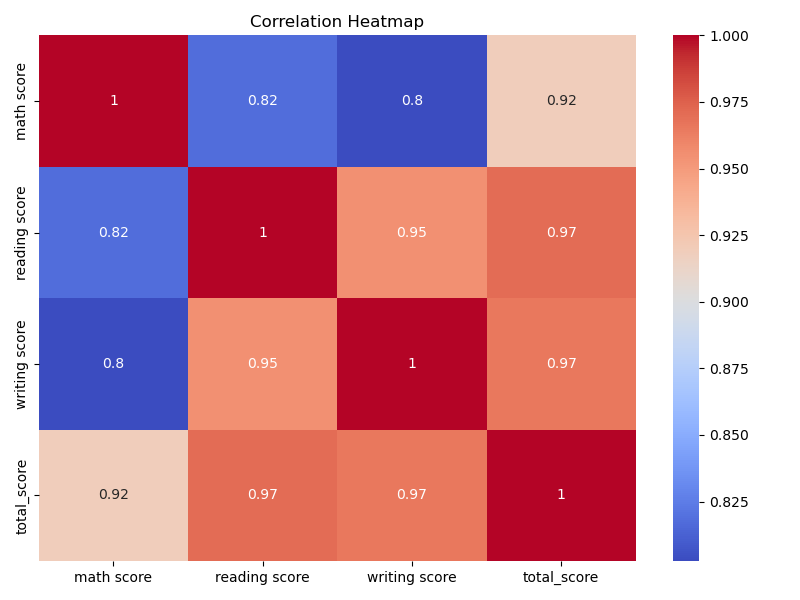
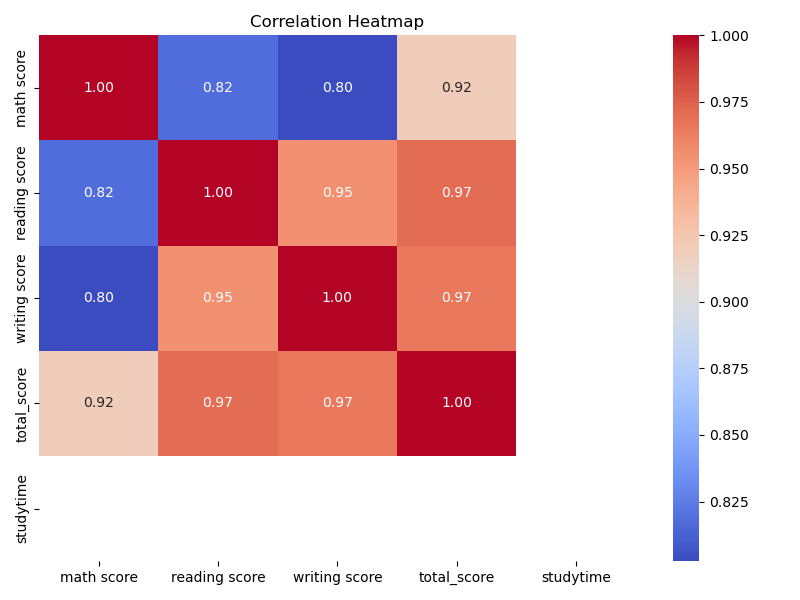
Updated notebook and markdown files

diff --git a/index.html b/index.html
@@ -1,16 +1,18 @@
 <!DOCTYPE html>
 <html lang="en">
+
 <head>
   <meta charset="UTF-8" />
-  <meta name="viewport" content="width=device-width, initial-scale=1.0"/>
+  <meta name="viewport" content="width=device-width, initial-scale=1.0" />
   <title>Student Performance Dashboard</title>
 
   <!-- Fonts & Icons -->
   <link href="https://fonts.googleapis.com/css2?family=IBM+Plex+Sans&display=swap" rel="stylesheet">
-  <link rel="stylesheet" href="https://cdnjs.cloudflare.com/ajax/libs/font-awesome/6.5.0/css/all.min.css"/>
+  <link rel="stylesheet" href="https://cdnjs.cloudflare.com/ajax/libs/font-awesome/6.5.0/css/all.min.css" />
 
   <!-- GSAP -->
   <script src="https://cdnjs.cloudflare.com/ajax/libs/gsap/3.12.2/gsap.min.js"></script>
+  <script src="https://cdnjs.cloudflare.com/ajax/libs/gsap/3.12.2/ScrollTrigger.min.js"></script>
 
   <style>
     * {
@@ -18,6 +20,7 @@
       padding: 0;
       box-sizing: border-box;
     }
+
     body {
       font-family: 'IBM Plex Sans', sans-serif;
       background-color: #f9fafb;
@@ -28,7 +31,30 @@
       margin: auto;
     }
 
-    h1, h2, h3 {
+    header {
+      text-align: center;
+      margin-bottom: 40px;
+    }
+
+    nav {
+      margin-top: 10px;
+      display: flex;
+      justify-content: center;
+      gap: 15px;
+    }
+
+    nav a {
+      text-decoration: none;
+      background: #0077cc;
+      color: white;
+      padding: 6px 12px;
+      border-radius: 6px;
+      font-size: 0.9rem;
+    }
+
+    h1,
+    h2,
+    h3 {
       font-weight: 600;
       margin-bottom: 12px;
     }
@@ -48,7 +74,9 @@
       background: white;
       padding: 15px;
       border-radius: 8px;
-      box-shadow: 0 2px 10px rgba(0,0,0,0.03);
+      box-shadow: 0 2px 10px rgba(0, 0, 0, 0.03);
+      opacity: 0;
+      transform: translateY(20px);
     }
 
     img {
@@ -90,26 +118,62 @@
       font-weight: 500;
     }
 
+    .filter {
+      margin: 20px 0;
+      text-align: center;
+    }
+
+    .filter select {
+      padding: 6px 12px;
+      border-radius: 6px;
+      border: 1px solid #ccc;
+    }
+
     @media (max-width: 600px) {
       .team {
         text-align: center;
       }
+
+      nav {
+        flex-direction: column;
+        gap: 10px;
+      }
     }
   </style>
 </head>
+
 <body>
 
-  <h1 id="title">Student Performance Dashboard</h1>
+  <header>
+    <h1 id="title">📊 Student Performance Dashboard</h1>
+    <nav>
+      <a href="#visuals">Visuals</a>
+      <a href="#timeline">Timeline</a>
+      <a href="#insights">Insights</a>
+    </nav>
+  </header>
+
+  <!-- Chart Filter -->
+  <div class="filter">
+    <label for="scoreFilter">Filter Charts:</label>
+    <select id="scoreFilter" onchange="filterCharts()">
+      <option value="all">Show All</option>
+      <option value="math">Math</option>
+      <option value="reading">Reading</option>
+      <option value="writing">Writing</option>
+      <option value="total">Total</option>
+    </select>
+  </div>
 
   <!-- Key Visuals -->
-  <div class="section">
+  <div class="section" id="visuals">
     <h2 class="icon-title"><i class="fa-solid fa-chart-bar"></i> Key Visuals</h2>
-    <div class="grid-3">
-      <div class="image-box">
-        <h3>Total Score Distribution</h3>
-        <img src="static/total_score_distribution.png" alt="Total Score Distribution">
+    <div class="grid-3" id="charts">
+      <div class="image-box total">
+        <h3>Male Vs Female</h3>
+        <img src="static/male_female_comparison.png" alt="Writing Score Histogram">
       </div>
-      <div class="image-box">
+      <div class="image-box gender">
         <h3>Average Scores by Gender</h3>
         <img src="static/avg_scores_by_gender.png" alt="Average Scores by Gender">
       </div>
@@ -117,43 +181,54 @@
         <h3>Correlation Heatmap</h3>
         <img src="static/correlation_heatmap.png" alt="Correlation Heatmap">
       </div>
-    </div>
+      <div class="image-box math">
+        <h3>Math Score Distribution</h3>
+        <img src="static/math_score_histogram.png" alt="Math Score Histogram">
+      </div>
+      <div class="image-box reading">
+        <h3>Reading Score Distribution</h3>
+        <img src="static/reading_score_histogram.png" alt="Reading Score Histogram">
+      </div>
+      <div class="image-box writing">
+        <h3>Writing Score Distribution</h3>
+        <img src="static/writing_score_histogram.png" alt="Writing Score Histogram">
+      </div>
   </div>
 
   <!-- Timeline Steps -->
-  <div class="section">
+  <div class="section" id="timeline">
     <h2 class="icon-title"><i class="fa-solid fa-timeline"></i> Analysis Timeline</h2>
     <div class="timeline">
       <div class="timeline-step">
         <strong>Step 1: Data Collection</strong>
-        <p>We loaded the <code>StudentsPerformance.csv</code> dataset, which includes details like gender, race, parental education, lunch type, and scores for math, reading, and writing.</p>
+        <p>We loaded the <code>StudentsPerformance.csv</code> dataset, containing gender, race, parental education, lunch type, and subject scores.</p>
       </div>
       <div class="timeline-step">
-        <strong>Step 2: Creating a Total Score Column</strong>
-        <p>We added a new column <code>total_score</code> by summing the three subject scores. This helped us understand the overall performance of each student.</p>
+        <strong>Step 2: Total Score Column</strong>
+        <p>A <code>total_score</code> column was added by summing math, reading, and writing scores to measure overall performance.</p>
       </div>
       <div class="timeline-step">
-        <strong>Step 3: Plotting Total Score Distribution</strong>
-        <p>We used a histogram to visualize how total scores are distributed among students. It showed us if the scores were clustered or spread out.</p>
+        <strong>Step 3: Histogram Analysis</strong>
+        <p>Histograms were created for each subject and total score to understand score distributions and identify trends.</p>
       </div>
       <div class="timeline-step">
-        <strong>Step 4: Comparing Genders</strong>
-        <p>We calculated and compared average scores by gender for each subject to see performance differences between male and female students.</p>
+        <strong>Step 4: Gender Comparison</strong>
+        <p>We visualized average scores across genders, helping to identify subject strengths by gender.</p>
       </div>
       <div class="timeline-step">
         <strong>Step 5: Correlation Analysis</strong>
-        <p>A correlation heatmap helped us identify relationships between numerical fields—showing which scores tend to increase together.</p>
+        <p>A heatmap was generated to understand how academic and personal attributes correlate with performance.</p>
       </div>
     </div>
   </div>
 
   <!-- Insights -->
-  <div class="section">
+  <div class="section" id="insights">
     <h2 class="icon-title"><i class="fa-solid fa-magnifying-glass-chart"></i> Key Insights</h2>
     <ul>
-      <li>Math scores have the highest impact on a student's total score.</li>
-      <li>Girls perform better in reading and writing compared to boys.</li>
-      <li>Parental education level and gender show moderate effects on student performance.</li>
+      <li>📘 Math scores are the strongest driver of overall performance.</li>
+      <li>👩 Girls outperform boys in reading and writing.</li>
+      <li>🎓 Parental education level moderately influences performance.</li>
     </ul>
   </div>
 
@@ -164,13 +239,20 @@
 
   <!-- GSAP Animations -->
   <script>
+    gsap.registerPlugin(ScrollTrigger);
+
     gsap.to("#title", { duration: 1, opacity: 1, y: 0, ease: "power2.out", delay: 0.2 });
 
-    gsap.from(".image-box", {
-      opacity: 0,
-      y: 30,
-      stagger: 0.2,
+    gsap.to(".image-box", {
+      scrollTrigger: {
+        trigger: "#visuals",
+        start: "top 80%",
+        toggleActions: "play none none none"
+      },
+      opacity: 1,
+      y: 0,
       duration: 1,
+      stagger: 0.2,
       ease: "power2.out"
     });
 
@@ -186,6 +268,19 @@
       stagger: 0.3,
       ease: "power2.out"
     });
+
+    function filterCharts() {
+      const value = document.getElementById("scoreFilter").value;
+      const boxes = document.querySelectorAll(".image-box");
+
+      boxes.forEach(box => {
+        if (value === "all" || box.classList.contains(value)) {
+          box.style.display = "block";
+        } else {
+          box.style.display = "none";
+        }
+      });
+    }
   </script>
 
 </body>

diff --git a/app.py b/app.py
@@ -1,34 +1,63 @@
 import pandas as pd
+import numpy as np
 import plotly.express as px
-import matplotlib.pyplot as plt
 import seaborn as sns
+import matplotlib.pyplot as plt
 import os
 
-# Create a 'static' folder to save plots
 os.makedirs("static", exist_ok=True)
 
-# Load dataset
-df = pd.read_csv("StudentsPerformance.csv")
+# Load core dataset
+df_scores = pd.read_csv("StudentsPerformance.csv")
+df_scores['total_score'] = df_scores[['math score','reading score','writing score']].sum(axis=1)
 
-# Total score column
-df['total_score'] = df[['math score', 'reading score', 'writing score']].sum(axis=1)
+# Optional: Load alcohol dataset if available
+try:
+    df_alc = pd.read_csv("student-mat.csv", sep=';')
+    df_alc = df_alc[['studytime','G1','G2','G3']]
+    df_alc.rename(columns={'G3':'final_grade'}, inplace=True)
+    # Combine a sample (first 1000) with main
+    df = df_scores.head(len(df_alc)).copy()
+    df['studytime'] = df_alc['studytime']
+    df['final_grade'] = df_alc['final_grade']
+except FileNotFoundError:
+    df = df_scores.copy()
+    df['studytime'] = np.nan
+    print("student-mat.csv not found; skipping alcohol data")
 
-# Plot 1: Total Score Distribution
-fig1 = px.histogram(df, x='total_score', nbins=30, title='Total Score Distribution')
-fig1.write_image("static/total_score_distribution.png")
+# Histograms: math, reading, writing, total
+scores = ['math score','reading score','writing score','total_score']
+for subj in scores:
+    fig = px.histogram(df, x=subj, nbins=30, title=f"{subj.replace('_',' ').title()} Distribution")
+    fig.write_image(f"static/{subj.replace(' ','_')}_histogram.png")
 
-# Plot 2: Average Scores by Gender
-avg_scores = df.groupby('gender')[['math score', 'reading score', 'writing score']].mean().reset_index()
-fig2 = px.bar(avg_scores, x='gender', y=['math score', 'reading score', 'writing score'],
-              barmode='group', title='Average Scores by Gender')
-fig2.write_image("static/avg_scores_by_gender.png")
+# Bar plot: gender - average scores
+avg_gender = df.groupby('gender')[['math score','reading score','writing score']].mean().reset_index()
+fig = px.bar(avg_gender,x='gender',y=['math score','reading score','writing score'], barmode='group',
+             title="Average Scores by Gender")
+fig.write_image("static/avg_scores_by_gender.png")
 
-# Plot 3: Correlation Heatmap
-plt.figure(figsize=(8, 6))
-sns.heatmap(df.corr(numeric_only=True), annot=True, cmap="coolwarm")
+# Line chart: study time vs average subject scores
+if 'studytime' in df.columns and df['studytime'].notna().all():
+    study_avg = df.groupby('studytime')[['math score','reading score','writing score']].mean().reset_index()
+    fig = px.line(study_avg, x='studytime', y=['math score','reading score','writing score'],
+                  markers=True, title="Grades vs Study Time")
+    fig.write_image("static/grades_vs_studytime.png")
+else:
+    print("Skipping Study Time chart—no studytime column")
+
+# Correlation heatmap
+plt.figure(figsize=(8,6))
+sns.heatmap(df.corr(numeric_only=True), annot=True, cmap="coolwarm", fmt=".2f")
 plt.title("Correlation Heatmap")
 plt.tight_layout()
 plt.savefig("static/correlation_heatmap.png")
 plt.close()
 
-print("✅ Dashboard images saved to 'static/' folder.")
+# Combined gender comparison histogram
+m_df = df[df['gender']=='male'][scores]
+f_df = df[df['gender']=='female'][scores]
+combined = pd.concat([m_df.mean().rename('Male'), f_df.mean().rename('Female')], axis=1).reset_index()
+fig = px.bar(combined, x='index', y=['Male','Female'], barmode='group',
+             title="Male vs Female Mean Scores")
+fig.write_image("static/male_female_comparison.png")
